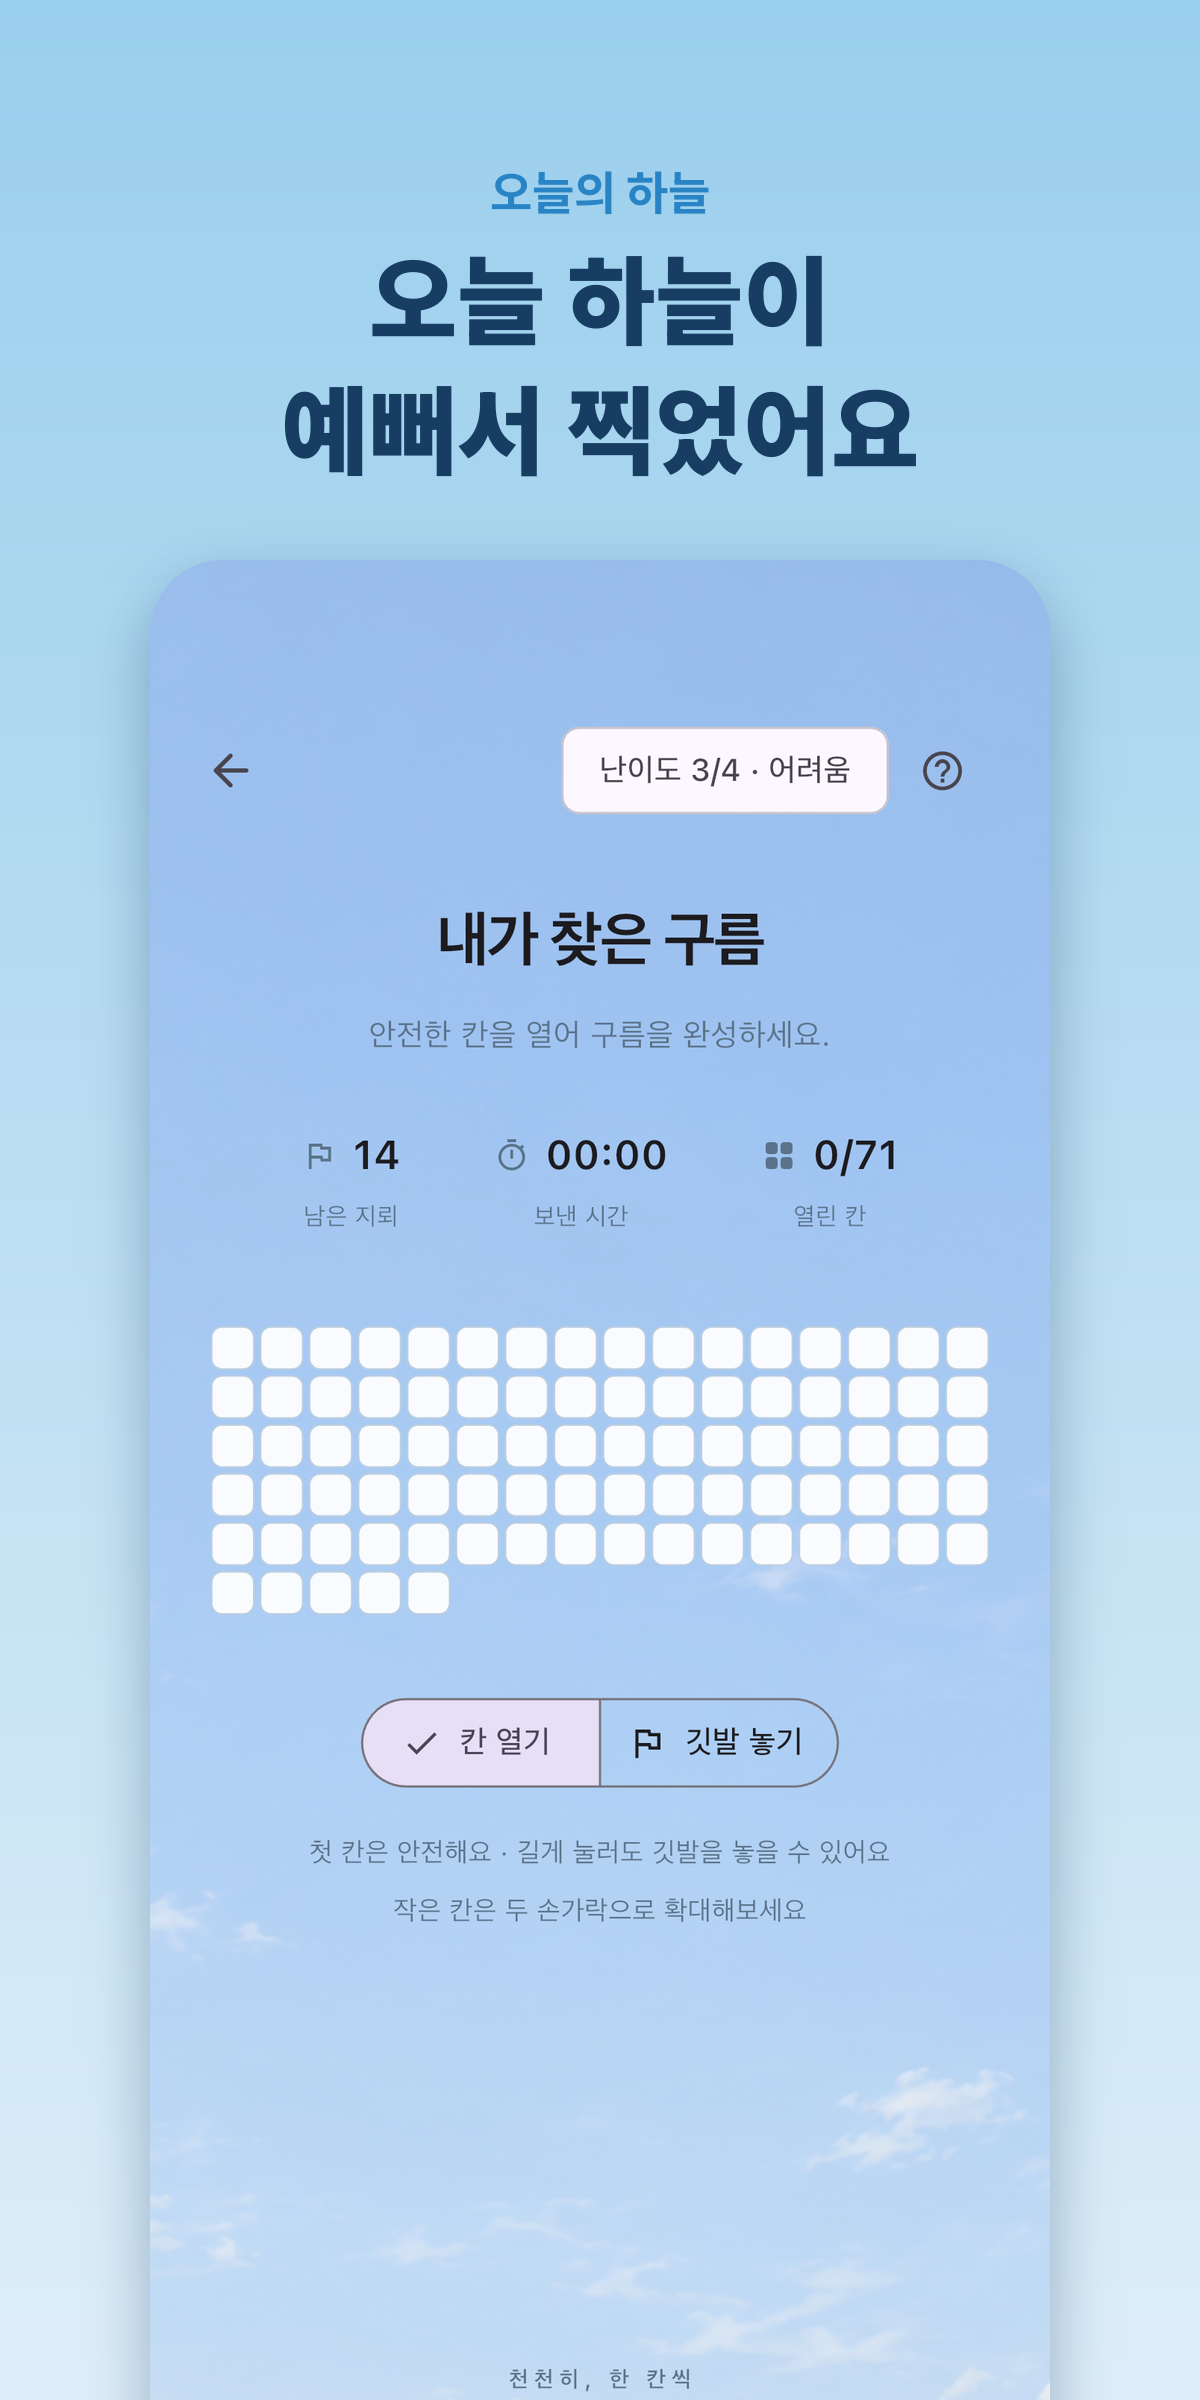
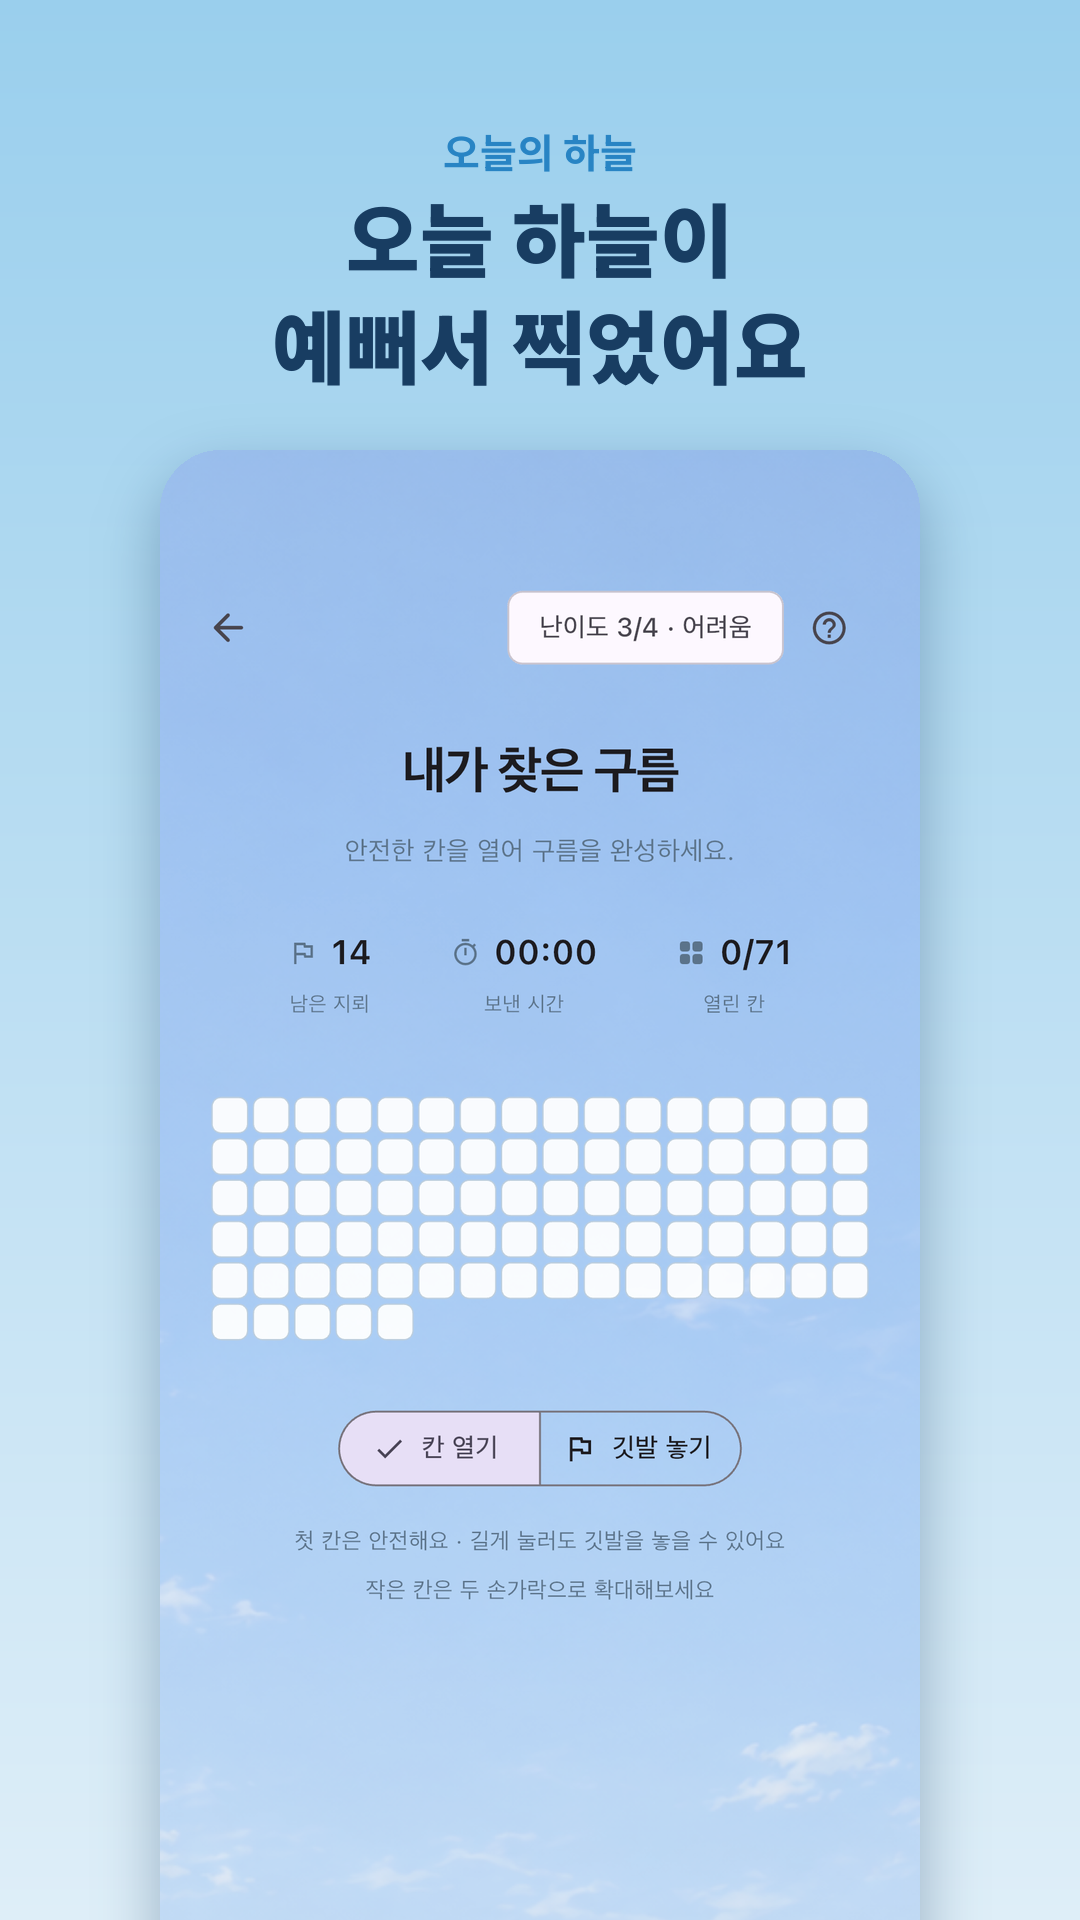
Make the Play phone screenshots 9:16
Play Console only accepts 16:9 or 9:16 phone screenshots, so the
1200x2400 layout is redrawn at 1080x1920.

diff --git a/tools/play_store_assets.py b/tools/play_store_assets.py
@@ -29,11 +29,11 @@ def font(size, weight):
 icon = Image.open(root / "assets/branding/app-icon.png").convert("RGB")
 icon.resize((512, 512), Image.LANCZOS).save(out / "icon-512.png")
 
-# Play caps phone screenshots at 2:1 and the App Store frames show an iPhone,
+# Play wants 9:16 phone screenshots and the App Store frames show an iPhone,
 # so lay the raw captures out again: caption on top, the screen below it.
 deck = json.loads((root / "tools/store-screenshots/app-store-screenshots.json").read_text())
 ink, muted, accent = (24, 61, 98), (62, 94, 124), (40, 132, 196)
-W, H = 1200, 2400
+W, H = 1080, 1920
 for n, slide in enumerate(deck["slidesByDevice"]["iphone"], 1):
     canvas = Image.new("RGB", (W, H))
     top, bottom = (154, 207, 237), (222, 238, 248)
@@ -41,18 +41,18 @@ for n, slide in enumerate(deck["slidesByDevice"]["iphone"], 1):
         t = y / (H - 1)
         ImageDraw.Draw(canvas).line([(0, y), (W, y)], fill=tuple(round(a + (b - a) * t) for a, b in zip(top, bottom)))
     draw = ImageDraw.Draw(canvas)
-    draw.text((W // 2, 190), slide["label"]["ko"], font=font(46, 700), fill=accent, anchor="mm")
-    draw.multiline_text((W // 2, 360), slide["headline"]["ko"], font=font(96, 900), fill=ink,
-                        anchor="mm", align="center", spacing=18)
+    draw.text((W // 2, 150), slide["label"]["ko"], font=font(40, 700), fill=accent, anchor="mm")
+    draw.multiline_text((W // 2, 290), slide["headline"]["ko"], font=font(80, 900), fill=ink,
+                        anchor="mm", align="center", spacing=14)
     screen = Image.open(root / "tools/store-screenshots/public" / slide["screenshot"].lstrip("/").replace("{locale}", "ko")).convert("RGB")
-    sw = 900
+    sw = 760
     screen = screen.resize((sw, round(screen.height * sw / screen.width)), Image.LANCZOS)
-    x, y = (W - sw) // 2, 560
+    x, y = (W - sw) // 2, 450
     shade = Image.new("L", (W, H), 0)
-    ImageDraw.Draw(shade).rounded_rectangle((x, y + 24, x + sw, y + screen.height + 24), radius=72, fill=90)
+    ImageDraw.Draw(shade).rounded_rectangle((x, y + 24, x + sw, y + screen.height + 24), radius=60, fill=90)
     canvas.paste((24, 61, 98), (0, 0), shade.filter(ImageFilter.GaussianBlur(30)))
     corners = Image.new("L", screen.size, 0)
-    ImageDraw.Draw(corners).rounded_rectangle((0, 0, sw - 1, screen.height - 1), radius=72, fill=255)
+    ImageDraw.Draw(corners).rounded_rectangle((0, 0, sw - 1, screen.height - 1), radius=60, fill=255)
     canvas.paste(screen, (x, y), corners)
     canvas.save(out / "phone-ko" / f"{n:02d}.png")
 
